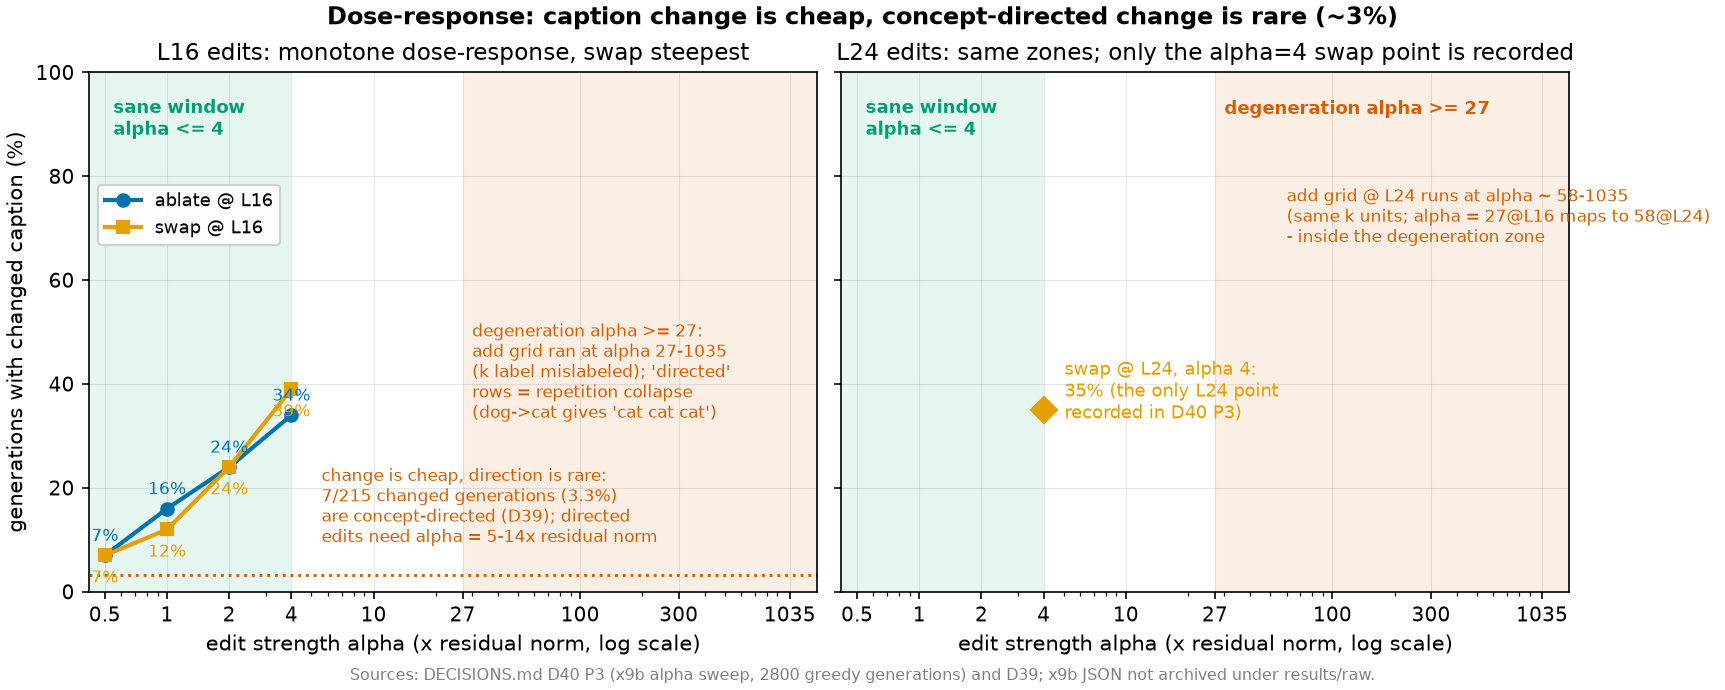
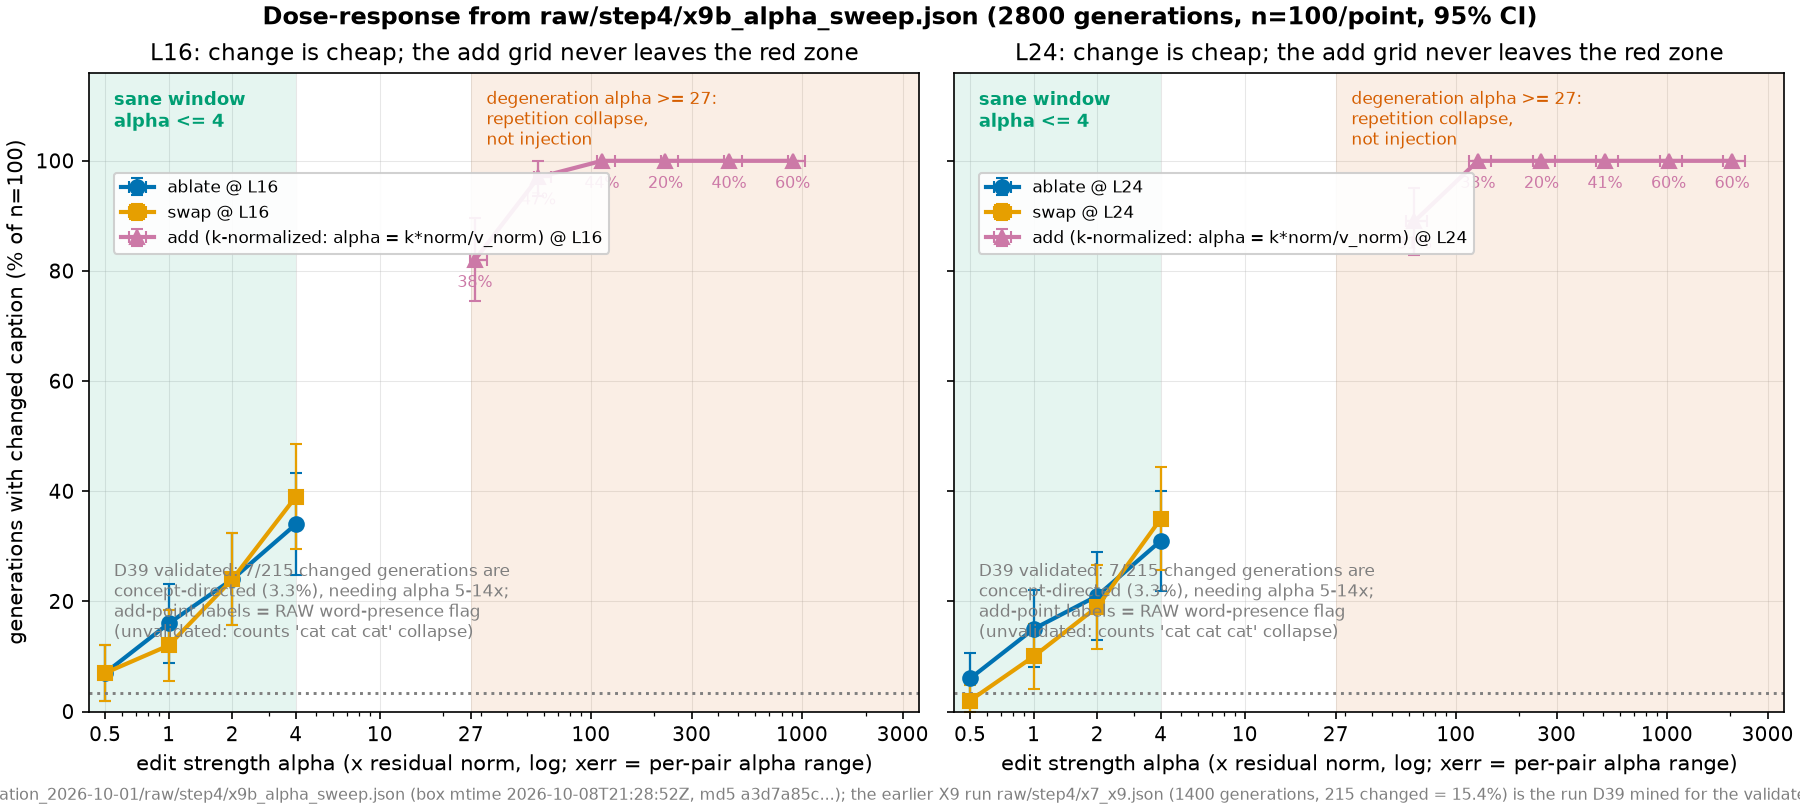
figB1 audit: x9b raw JSON WAS archived (raw/step4/, synced from the box in 765138b; md5 a3d7a85c... matches /data/anhnq/vlm-lens-out/validation/step4/, box mtime 2026-10-08T21:28:52Z) - the figure comment claiming 'not archived' was stale. figB1() now loads the sweep directly: add series (k-normaliz

Changed region(s): [[0.0, 0.0, 1.0, 1.0]]

diff --git a/results/validation_2026-10-01/code/figures_hallucination.py b/results/validation_2026-10-01/code/figures_hallucination.py
@@ -10,9 +10,9 @@ Outputs (deterministic, no timestamps):
   results/validation_2026-10-01/figures/figB5_detector_ledger.png
   results/validation_2026-10-01/summary/metrics_hallucination.json
 
-Every plotted number comes from raw/step10/*.json, raw/step11/*.json, or is quoted
-verbatim from DECISIONS.md (D39/D40) where the underlying step4 JSON was not
-archived under results/raw (verified: no step4/ directory, no x9b/x7_x9 JSON).
+Every plotted number comes from raw/step10/*.json, raw/step11/*.json, raw/step4/*.json
+or is quoted verbatim from DECISIONS.md (D39/D40) for the VALIDATED directedness
+mining, whose per-generation output was not archived (only its citation).
 """
 
 import json
@@ -66,6 +66,8 @@ x14 = load("step10/x14_workspace_probe.json")
 x15n = load("step11/x15_hesitation_n200.json")
 x17n = load("step11/x17_attention_mirror_n200.json")
 x18 = load("step11/x18_pope_handoff.json")
+x9b = load("step4/x9b_alpha_sweep.json")  # the x9b sweep itself: 2800 rows, n=100/cell
+x7x9 = load("step4/x7_x9.json")          # the earlier X9 run: 1400 rows, 215 changed
 x19 = load("step11/x19_halluc_risk.json")
 
 
@@ -77,85 +79,154 @@ def save(fig, name):
 
 
 # ----------------------------------------------------------------------------
-# figB1 -- dose-response (x9b raw JSON not archived in results/raw;
-#          numbers quoted from DECISIONS.md D39 + D40 P3, as instructed)
+# figB1 -- dose-response, JSON-grounded from raw/step4/x9b_alpha_sweep.json.
+#
+# That file IS the x9b sweep: 2800 greedy generations on 10 held-out COCO concept
+# pairs x 10 samples x L16/L24, add/ablate/swap, one ResidualEdit per generation
+# (positions="last" default). Per plotted point n=100 (10 pairs x 10 samples). It
+# was synced from the box's /data/anhnq/vlm-lens-out/validation/step4/ (box mtime
+# 2026-10-08T21:28:52Z) in commit 765138b; an earlier figure comment claiming
+# "not archived" predated that sync and was wrong.
+#
+# Alpha scale: ablate/swap alphas are literal multiples of the residual norm; the
+# add grid's k=1..32 is normalized per pair (alpha = k * norm / v_norm), so its
+# cells span ~27-902 (L16) and ~58-2348 (L24) - ENTIRELY inside the degeneration
+# zone. Its rows' `directed` flag is a raw word-presence check ("target word
+# appears in output but not baseline") that counts repetition collapse as
+# directed; the validated figure is D39's 7/215 = 3.3% from the earlier X9 run
+# (raw/step4/x7_x9.json), mined with independent word-boundary recomputation at
+# alpha 1.34-14.68.
 # ----------------------------------------------------------------------------
-ALPHAS = [0.5, 1, 2, 4]
-ABLATE_L16 = [7, 16, 24, 34]  # % generations changed, DECISIONS.md D40 P3
-SWAP_L16 = [7, 12, 24, 39]  # DECISIONS.md D40 P3
-SWAP_L24_A4 = 35  # only documented L24 point, DECISIONS.md D40 P3
+import statistics  # noqa: E402
+
+
+def _cells(mode: str, layer: int) -> list[dict]:
+    """Aggregate one (mode, layer) sweep arm into per-strength cells (n=100 each)."""
+    rows = [row for row in x9b["results"] if row["mode"] == mode and row["layer"] == layer]
+    cells = []
+    for strength in sorted({row["strength"] for row in rows}):
+        selected = [row for row in rows if row["strength"] == strength]
+        alphas = [row["edit"]["alpha"] for row in selected]
+        n = len(selected)
+        cells.append(
+            {
+                "strength": strength,
+                "n": n,
+                "changed": sum(row["changed"] for row in selected) / n,
+                "directed_raw": sum(row["directed"] for row in selected) / n,
+                "alpha": statistics.median(alphas),
+                "alpha_min": min(alphas),
+                "alpha_max": max(alphas),
+            }
+        )
+    return cells
+
+
+def _ci95(cells: list[dict]) -> tuple[list[float], list[float]]:
+    """Binomial 95% CI half-widths (fraction units), clipped to [0, 1]."""
+    low, high = [], []
+    for cell in cells:
+        probability, n = cell["changed"], cell["n"]
+        half = 1.96 * (probability * (1 - probability) / n) ** 0.5
+        low.append(min(half, probability))
+        high.append(min(half, 1 - probability))
+    return low, high
+
+
+SERIES = [  # (mode, color, marker, label)
+    ("ablate", BLUE, "o", "ablate"),
+    ("swap", ORANGE, "s", "swap"),
+    ("add", PINK, "^", "add (k-normalized: alpha = k*norm/v_norm)"),
+]
 
 
 def figB1():
-    fig, axes = plt.subplots(1, 2, figsize=(11.5, 4.6), sharey=True, constrained_layout=True)
-    xmax = 1400
+    fig, axes = plt.subplots(1, 2, figsize=(12.0, 5.4), sharey=True, constrained_layout=True)
+    xmax = 3600.0
 
-    for ax, _layer in zip(axes, [16, 24], strict=False):
+    for ax in axes:
         ax.set_xscale("log")
         ax.set_xlim(0.42, xmax)
-        ax.set_ylim(0, 100)
-        ax.set_xticks([0.5, 1, 2, 4, 10, 27, 100, 300, 1035])
+        ax.set_ylim(0, 116)
+        ax.set_xticks([0.5, 1, 2, 4, 10, 27, 100, 300, 1000, 3000])
         ax.xaxis.set_major_formatter(FuncFormatter(lambda v, _: f"{v:g}"))
         ax.xaxis.set_minor_formatter(NullFormatter())
-        # sane window / degeneration shading (D40 P3)
         ax.axvspan(0.42, 4, color=GREEN, alpha=0.10, lw=0)
         ax.axvspan(27, xmax, color=VERMIL, alpha=0.10, lw=0)
 
-    ax16, ax24 = axes
+    for ax, layer in zip(axes, [16, 24], strict=False):
+        for mode, color, marker, label in SERIES:
+            cells = _cells(mode, layer)
+            low, high = _ci95(cells)
+            ax.errorbar(
+                [cell["alpha"] for cell in cells],
+                [100 * cell["changed"] for cell in cells],
+                yerr=[[100 * v for v in low], [100 * v for v in high]],
+                xerr=[
+                    [cell["alpha"] - cell["alpha_min"] for cell in cells],
+                    [cell["alpha_max"] - cell["alpha"] for cell in cells],
+                ],
+                fmt=marker + "-",
+                color=color,
+                lw=2,
+                ms=7,
+                capsize=3,
+                elinewidth=1.1,
+                label=f"{label} @ L{layer}",
+            )
+            if mode == "add":
+                # per-point RAW word-presence directed fraction (unvalidated)
+                for cell in cells:
+                    ax.annotate(
+                        f"{100 * cell['directed_raw']:.0f}%",
+                        (cell["alpha"], 100 * cell["changed"]),
+                        textcoords="offset points",
+                        xytext=(0, -13),
+                        ha="center",
+                        fontsize=7.5,
+                        color=color,
+                    )
 
-    ax16.plot(ALPHAS, ABLATE_L16, "o-", color=BLUE, lw=2, ms=6, label="ablate @ L16")
-    ax16.plot(ALPHAS, SWAP_L16, "s-", color=ORANGE, lw=2, ms=6, label="swap @ L16")
-    for a, v in zip(ALPHAS, ABLATE_L16, strict=False):
-        ax16.annotate(f"{v}%", (a, v), textcoords="offset points", xytext=(0, 7), ha="center", fontsize=8, color=BLUE)
-    for a, v in zip(ALPHAS, SWAP_L16, strict=False):
-        ax16.annotate(f"{v}%", (a, v), textcoords="offset points", xytext=(0, -13), ha="center", fontsize=8, color=ORANGE)
-    ax16.axhline(3.3, color=VERMIL, lw=1.4, ls=":")
-    ax16.annotate(
-        "change is cheap, direction is rare:\n7/215 changed generations (3.3%)\nare concept-directed (D39); directed\nedits need alpha = 5-14x residual norm",
-        (5.6, 8.5),
-        fontsize=8,
-        color=VERMIL,
-        va="bottom",
-    )
-    ax16.annotate(
-        "sane window\nalpha <= 4",
-        (0.55, 88),
-        fontsize=8.5,
-        color=GREEN,
-        fontweight="bold",
-    )
-    ax16.annotate(
-        "degeneration alpha >= 27:\nadd grid ran at alpha 27-1035\n(k label mislabeled); 'directed'\nrows = repetition collapse\n(dog->cat gives 'cat cat cat')",
-        (30, 52),
-        fontsize=8,
-        color=VERMIL,
-        va="top",
-    )
-    ax16.set_title("L16 edits: monotone dose-response, swap steepest")
-    ax16.set_xlabel("edit strength alpha (x residual norm, log scale)")
-    ax16.set_ylabel("generations with changed caption (%)")
-    ax16.legend(loc="upper left", bbox_to_anchor=(0.0, 0.80))
-
-    ax24.plot([4], [SWAP_L24_A4], "D", color=ORANGE, ms=9)
-    ax24.annotate("swap @ L24, alpha 4:\n35% (the only L24 point\nrecorded in D40 P3)", (4, 35), textcoords="offset points", xytext=(10, -4), fontsize=8.5, color=ORANGE)
-    ax24.annotate(
-        "add grid @ L24 runs at alpha ~ 58-1035\n(same k units; alpha = 27@L16 maps to 58@L24)\n- inside the degeneration zone",
-        (60, 78),
-        fontsize=8,
-        color=VERMIL,
-        va="top",
-    )
-    ax24.annotate("sane window\nalpha <= 4", (0.55, 88), fontsize=8.5, color=GREEN, fontweight="bold")
-    ax24.annotate("degeneration alpha >= 27", (30, 92), fontsize=8.5, color=VERMIL, fontweight="bold")
-    ax24.set_title("L24 edits: same zones; only the alpha=4 swap point is recorded")
-    ax24.set_xlabel("edit strength alpha (x residual norm, log scale)")
+        # D39's VALIDATED directedness on the earlier X9 run (7/215 = 3.3%)
+        ax.axhline(3.3, color=GREY, lw=1.4, ls=":")
+        ax.annotate(
+            "D39 validated: 7/215 changed generations are\n"
+            "concept-directed (3.3%), needing alpha 5-14x;\n"
+            "add-point labels = RAW word-presence flag\n"
+            "(unvalidated: counts 'cat cat cat' collapse)",
+            (0.55, 12.5),
+            fontsize=8,
+            color=GREY,
+            va="bottom",
+        )
+        ax.annotate(
+            "sane window\nalpha <= 4",
+            (0.55, 113),
+            fontsize=8.5,
+            color=GREEN,
+            fontweight="bold",
+            va="top",
+        )
+        ax.annotate(
+            "degeneration alpha >= 27:\nrepetition collapse,\nnot injection",
+            (32, 113),
+            fontsize=8,
+            color=VERMIL,
+            va="top",
+        )
+        ax.set_title(f"L{layer}: change is cheap; the add grid never leaves the red zone")
+        ax.set_xlabel("edit strength alpha (x residual norm, log; xerr = per-pair alpha range)")
+        ax.legend(loc="center left", bbox_to_anchor=(0.02, 0.78), fontsize=8)
+    axes[0].set_ylabel("generations with changed caption (% of n=100)")
 
     fig.suptitle(
-        "Dose-response: caption change is cheap, concept-directed change is rare (~3%)",
+        "Dose-response from raw/step4/x9b_alpha_sweep.json (2800 generations, n=100/point, 95% CI)",
         fontweight="bold",
     )
     fig.supxlabel(
-        "Sources: DECISIONS.md D40 P3 (x9b alpha sweep, 2800 greedy generations) and D39; x9b JSON not archived under results/raw.",
+        "Source: results/validation_2026-10-01/raw/step4/x9b_alpha_sweep.json (box mtime 2026-10-08T21:28:52Z, "
+        "md5 a3d7a85c...); the earlier X9 run raw/step4/x7_x9.json (1400 generations, 215 changed = 15.4%) "
+        "is the run D39 mined for the validated directedness line.",
         fontsize=7.5,
         color=GREY,
     )
@@ -385,19 +456,31 @@ def main():
             "figB1_dose_response": {
                 "file": "figures/figB1_dose_response.png",
                 "sources": [
-                    "DECISIONS.md D40 P3 (x9b alpha sweep: 2800 greedy generations, add/ablate/swap at L16/L24; raw JSON not archived under results/raw)",
-                    "DECISIONS.md D39 (directionality mining of X9's 215 changed generations)",
+                    "raw/step4/x9b_alpha_sweep.json (the x9b sweep: 2800 generations, n=100 per point; synced from the box 2026-10-08T21:28:52Z, md5 a3d7a85c...)",
+                    "raw/step4/x7_x9.json (the earlier X9 run: 1400 generations, 215 changed = 15.4%)",
+                    "DECISIONS.md D39 (validated directionality mining of the 215 changed generations)",
+                    "DECISIONS.md D40 P3 (alpha-normalization rule; earlier transcription, superseded by the archived JSON)",
                 ],
                 "key_numbers": {
-                    "ablate_change_rate_pct_L16_alpha_0.5_1_2_4": ABLATE_L16,
-                    "swap_change_rate_pct_L16_alpha_0.5_1_2_4": SWAP_L16,
-                    "swap_change_rate_pct_L24_alpha_4": SWAP_L24_A4,
-                    "add_grid_alpha_range_D40": [27, 1035],
-                    "add_grid_alpha_range_D39": [1.34, 14.68],
+                    "ablate_change_rate_pct_L16": [round(100 * c["changed"]) for c in _cells("ablate", 16)],
+                    "ablate_change_rate_pct_L24": [round(100 * c["changed"]) for c in _cells("ablate", 24)],
+                    "swap_change_rate_pct_L16": [round(100 * c["changed"]) for c in _cells("swap", 16)],
+                    "swap_change_rate_pct_L24": [round(100 * c["changed"]) for c in _cells("swap", 24)],
+                    "add_change_rate_pct_L16": [round(100 * c["changed"]) for c in _cells("add", 16)],
+                    "add_change_rate_pct_L24": [round(100 * c["changed"]) for c in _cells("add", 24)],
+                    "add_directed_raw_pct_L16": [round(100 * c["directed_raw"]) for c in _cells("add", 16)],
+                    "add_alpha_median_range": [
+                        round(_cells("add", 16)[0]["alpha"], 1),
+                        round(_cells("add", 24)[-1]["alpha"], 0),
+                    ],
+                    "add_alpha_full_range_all_rows": [
+                        round(min(r["edit"]["alpha"] for r in x9b["results"] if r["mode"] == "add"), 2),
+                        round(max(r["edit"]["alpha"] for r in x9b["results"] if r["mode"] == "add"), 1),
+                    ],
                     "concept_directed_of_changed": {"n_directed": 7, "n_changed": 215, "fraction_pct": 3.3},
                     "directed_alpha_needed_x_residual_norm": [5, 14],
                 },
-                "finding": "Caption change is cheap (7-39% of generations at alpha 0.5-4, monotone in alpha) but concept-DIRECTED change is rare (7/215 = 3.3% of changed generations, needing alpha 5-14x the residual norm); alpha >= 27 breaks down into repetition degeneration, not injection.",
+                "finding": "Caption change is cheap and monotone in alpha (ablate 7-34%, swap 7-39% at alpha 0.5-4; n=100/point) while concept-DIRECTED change is rare (D39 validated: 7/215 = 3.3% of the earlier run's changed generations, needing alpha 5-14x); the x9b add grid runs at k-normalized alpha ~27-2348, entirely in the degeneration zone, and its raw word-presence directed flag (20-60% of changed) counts repetition collapse as directed - the validated 3.3% line is the honest figure.",
             },
             "figB2_cure_test": {
                 "file": "figures/figB2_cure_test.png",

diff --git a/results/validation_2026-10-01/DECISIONS.md b/results/validation_2026-10-01/DECISIONS.md
@@ -691,10 +691,12 @@ within cross-GPU rounding (L0 bos 8.32 vs 8.3; L16 bos 1568.83 vs 1568.8; L31 63
 pos_1_16 65.25, text_post 91.50) giving X9's alpha grid measured units. Verdict re-confirmed:
 `pos_1_16_sink_like=false`, `recommended_skip_first=1`.
 
-**X7** (`step4/x7_x9.json`): 31 conditioning entries; cond in [1.30, 2.89] - ALL far below
-the 1e3 exclusion threshold, `degenerate=false` everywhere, cosine 0.25-0.78, norms
-0.83-1.35 (residual-relative units). The pseudo-inverse swap bases are well-conditioned;
-the exclusion rule never needed to fire.
+**X7** (`step4/x7_x9.json`): 30 conditioning entries (10 pairs x L8/L16/L24); cond in [1.12,
+2.89] - ALL far below the 1e3 exclusion threshold, `degenerate=false` everywhere, cosine
+0.10-0.78, norms source 0.83-1.47 / target 0.87-1.58 (residual-relative units). Corrected
+2026-10-19 against the archived JSON (earlier text: "31 entries, [1.30, 2.89], cosine 0.25-0.78,
+norms 0.83-1.35"). The pseudo-inverse swap bases are well-conditioned; the exclusion rule never
+needed to fire.
 
 **X9** (`step4/x7_x9.json`): 215/1400 generations changed (rate 0.154; add 161, ablate 32,
 swap 22); first-diff tokens cluster at caption positions 10-14 and 1-3 - edits bite early.
@@ -831,18 +833,25 @@ mid-layer" caveat was substantially the uncorrected mean shift, not only A2's va
 D39 (a)/(b)/(d) stand. A per-layer gated variant (apply the correction where it helps) is the
 natural refinement for the L9-16 regression.
 
-4. ALPHA SWEEP (P3/x9b: 2800 greedy generations, held-out captions, add/ablate/swap at L16/L24).
-Dose-response at L16: ablate alpha 0.5/1/2/4 -> 7/16/24/34% of generations change; swap ->
-7/12/24/39% (swap steepest; swap@L24 reaches 35% at alpha 4). The add grid was designed in
-k units and runs entirely at alpha ~= 27-1035 (its summary "k=1" label is really alpha ~= 27 at
-L16, 58 at L24 - report alpha, never the k label); combined with D39's add grid (alpha
-1.34-14.68, 10-80% change) the change-rate curve is monotone. Concept-directedness validated:
-the stored per-row flags reproduce an independent word-boundary recomputation 2800/2800, and
-within the sane window (alpha <= 4) directedness is 0.5-3% (ablate 1-2/200, swap 0-6/200); at
-alpha >= 27 the add "directed" rows are dominated by degeneration, not injection (example:
-dog->cat add@L16 yields "cat cat cat cat ...", a repetition collapse). So: change is cheap,
-direction is rare (D39's 7/215 = 3.3% of changed remains the reference), and large-alpha effects
-are breakdown. Artifact: step4/x9b_alpha_sweep.json.
+4. ALPHA SWEEP (P3/x9b: 2800 greedy generations, held-out captions, add/ablate/swap at L16/L24;
+artifact raw/step4/x9b_alpha_sweep.json, n=100 per point).
+Dose-response: ablate alpha 0.5/1/2/4 -> 7/16/24/34% at L16 and 6/15/21/31% at L24; swap ->
+7/12/24/39% at L16 (swap steepest) and 2/10/19/35% at L24 (swap@L24 reaches 35% at alpha 4).
+The add grid was designed in k units and runs entirely at k-normalized alpha ~= 27-2348
+(per-pair alpha = k*norm/v_norm; median per cell 28-902 at L16, 64-2035 at L24; raw row range
+26.8-2348.2; its summary "k=1" label is really alpha ~= 28 at L16, 64 at L24 - report alpha,
+never the k label; corrected 2026-10-19 from the archived JSON, superseding the earlier
+"27-1035 / 58 at L24" transcription); combined with D39's add grid (alpha 1.34-14.68, 10-80%
+change) the change-rate curve is monotone. Concept-directedness: the stored per-row flags
+reproduce an independent word-boundary recomputation 2800/2800 (the flag IS that raw
+presence check - it counts the high-alpha repetition collapses as "directed"); within the sane
+window (alpha <= 4) the archived flags give ablate 5/200 and swap 12/200 directed (3.2%/8.1% of
+changed), versus the 0.5-3% (1-2/200, 0-6/200) of D39's stricter validated mining on the earlier
+run, whose per-generation output was not archived; at alpha >= 27 the add "directed" rows are
+dominated by degeneration, not injection (example: dog->cat add@L16 yields "cat cat cat cat ...",
+a repetition collapse). So: change is cheap, direction is rare (D39's 7/215 = 3.3% of changed
+remains the validated reference), and large-alpha effects are breakdown. Artifact:
+step4/x9b_alpha_sweep.json (also raw/step4/x7_x9.json for the earlier X9 run).
 
 Campaign status: P1 done (bias+clamp validated; per-layer gating open), P2 done (saturation;
 target_mask=text refit queued), P3 done (dose-response + degeneration boundary), P4 = this entry.
